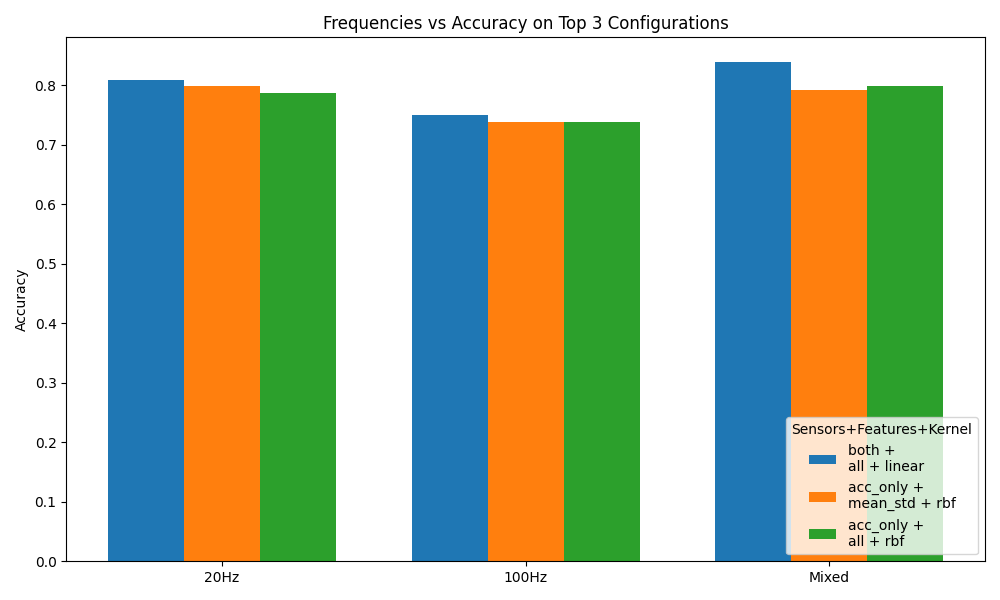
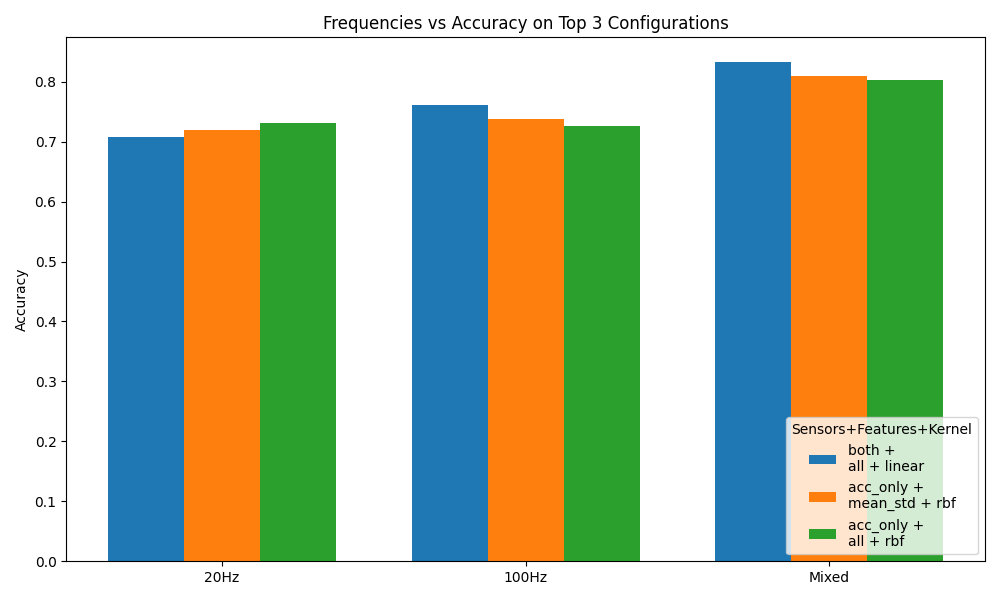
Update SVC kernel to linear with random state and sort dataset files

diff --git a/evaluate_full.py b/evaluate_full.py
@@ -40,7 +40,7 @@ def run_comprehensive_evaluation():
                 )
                 
                 for kernel in kernels:
-                    model = make_pipeline(StandardScaler(), SVC(kernel=kernel))
+                    model = make_pipeline(StandardScaler(), SVC(kernel=kernel, random_state=42))
                     model.fit(X_train, y_train)
                     acc = accuracy_score(y_test, model.predict(X_test))
                     

diff --git a/activity_recognizer.py b/activity_recognizer.py
@@ -37,10 +37,10 @@ class ActivityRecognizer:
         )
 
         # after comparing different kernels,
-        # rbf gave the most stable results for our data
+        # linear gave the most stable results for our data
         self.model = make_pipeline(
             StandardScaler(),
-            SVC(kernel="linear")
+            SVC(kernel="linear", random_state=42)
         )
 
         self.model.fit(X_train, y_train)

diff --git a/dataset_loader.py b/dataset_loader.py
@@ -9,8 +9,9 @@ def load_dataset(folder, target_freq=None):
     labels = []
 
     for root, dirs, files in os.walk(folder):
-
-        for filename in files:
+        dirs.sort()
+        
+        for filename in sorted(files):
 
             if not filename.endswith(".csv"):
                 continue

diff --git a/evaluation_table.md b/evaluation_table.md
@@ -2,147 +2,147 @@
 
 | Frequency   | Sensors   | Features   | Kernel   |   Accuracy |
 |:------------|:----------|:-----------|:---------|-----------:|
-| Mixed       | both      | all        | linear   |     0.8382 |
-| 20Hz        | both      | all        | linear   |     0.809  |
-| 20Hz        | acc_only  | mean_std   | rbf      |     0.7978 |
-| Mixed       | acc_only  | all        | rbf      |     0.7977 |
-| Mixed       | acc_only  | mean_std   | rbf      |     0.7919 |
-| 20Hz        | acc_only  | all        | rbf      |     0.7865 |
-| 20Hz        | both      | mean_std   | rbf      |     0.7753 |
-| 20Hz        | acc_only  | all        | linear   |     0.764  |
+| Mixed       | both      | all        | linear   |     0.8324 |
+| Mixed       | acc_only  | all        | linear   |     0.8092 |
+| Mixed       | acc_only  | mean_std   | rbf      |     0.8092 |
+| Mixed       | acc_only  | all        | rbf      |     0.8035 |
+| 100Hz       | both      | all        | linear   |     0.7619 |
 | Mixed       | both      | all        | rbf      |     0.7572 |
-| 20Hz        | both      | all        | rbf      |     0.7528 |
-| 100Hz       | both      | all        | linear   |     0.75   |
-| Mixed       | acc_only  | all        | linear   |     0.7457 |
+| 20Hz        | both      | mean_std   | rbf      |     0.7528 |
+| 100Hz       | both      | all        | rbf      |     0.75   |
+| Mixed       | both      | mean_std   | rbf      |     0.7457 |
+| Mixed       | both      | mean_std   | linear   |     0.7457 |
+| Mixed       | acc_only  | mean_std   | poly     |     0.7457 |
+| 20Hz        | both      | all        | rbf      |     0.7416 |
 | 100Hz       | acc_only  | mean_std   | rbf      |     0.7381 |
-| 100Hz       | acc_only  | all        | rbf      |     0.7381 |
-| Mixed       | both      | mean_std   | rbf      |     0.7283 |
-| 100Hz       | both      | all        | rbf      |     0.7262 |
-| 20Hz        | both      | mean_std   | linear   |     0.6966 |
-| Mixed       | both      | mean_std   | linear   |     0.6936 |
-| 100Hz       | acc_only  | all        | linear   |     0.6905 |
-| Mixed       | acc_only  | mean_std   | poly     |     0.6879 |
-| Mixed       | acc_only  | all        | poly     |     0.6821 |
-| 20Hz        | acc_only  | raw        | rbf      |     0.6742 |
-| 20Hz        | acc_only  | mean_std   | linear   |     0.6629 |
-| Mixed       | acc_only  | mean_std   | linear   |     0.659  |
-| Mixed       | both      | all        | poly     |     0.6532 |
-| Mixed       | both      | mean_only  | rbf      |     0.6532 |
-| 20Hz        | acc_only  | all        | poly     |     0.6517 |
-| 100Hz       | both      | mean_std   | rbf      |     0.6429 |
-| 20Hz        | acc_only  | mean_std   | poly     |     0.6404 |
-| 20Hz        | acc_only  | mean_only  | rbf      |     0.6404 |
-| 20Hz        | both      | mean_only  | rbf      |     0.6292 |
-| 100Hz       | acc_only  | mean_std   | linear   |     0.619  |
-| Mixed       | acc_only  | raw        | rbf      |     0.6185 |
-| Mixed       | acc_only  | mean_only  | rbf      |     0.6185 |
-| 100Hz       | both      | mean_only  | rbf      |     0.6071 |
-| 100Hz       | acc_only  | all        | poly     |     0.6071 |
-| 100Hz       | both      | mean_std   | linear   |     0.6071 |
-| Mixed       | both      | mean_std   | poly     |     0.6069 |
-| 20Hz        | both      | all        | poly     |     0.6067 |
-| 20Hz        | both      | mean_std   | sigmoid  |     0.6067 |
-| 20Hz        | both      | raw        | rbf      |     0.6067 |
-| Mixed       | both      | raw        | rbf      |     0.5954 |
-| 100Hz       | acc_only  | mean_std   | poly     |     0.5952 |
-| 100Hz       | acc_only  | raw        | rbf      |     0.5952 |
-| 20Hz        | both      | all        | sigmoid  |     0.5843 |
-| 100Hz       | acc_only  | all        | sigmoid  |     0.5833 |
-| 20Hz        | acc_only  | mean_std   | sigmoid  |     0.573  |
-| 20Hz        | acc_only  | all        | sigmoid  |     0.573  |
-| Mixed       | both      | all        | sigmoid  |     0.5723 |
-| 100Hz       | both      | all        | poly     |     0.5714 |
-| 20Hz        | both      | mean_std   | poly     |     0.5618 |
-| 100Hz       | acc_only  | mean_only  | rbf      |     0.5595 |
-| Mixed       | acc_only  | all        | sigmoid  |     0.5549 |
-| 100Hz       | both      | mean_std   | poly     |     0.5476 |
-| 20Hz        | acc_only  | raw        | poly     |     0.5393 |
-| Mixed       | acc_only  | mean_std   | sigmoid  |     0.5376 |
-| Mixed       | both      | mean_std   | sigmoid  |     0.5318 |
+| Mixed       | both      | mean_std   | poly     |     0.7341 |
+| 20Hz        | acc_only  | all        | rbf      |     0.7303 |
+| Mixed       | acc_only  | all        | poly     |     0.7283 |
+| 100Hz       | acc_only  | all        | rbf      |     0.7262 |
+| Mixed       | acc_only  | mean_std   | linear   |     0.7225 |
+| 20Hz        | acc_only  | mean_std   | rbf      |     0.7191 |
+| 100Hz       | both      | mean_std   | rbf      |     0.7143 |
+| 20Hz        | both      | all        | linear   |     0.7079 |
+| 100Hz       | acc_only  | all        | linear   |     0.7024 |
+| Mixed       | acc_only  | raw        | rbf      |     0.6936 |
+| 20Hz        | acc_only  | all        | linear   |     0.6854 |
+| 100Hz       | both      | mean_std   | linear   |     0.6786 |
+| 20Hz        | acc_only  | all        | poly     |     0.6742 |
+| 20Hz        | both      | mean_std   | linear   |     0.6742 |
+| 20Hz        | acc_only  | raw        | rbf      |     0.6629 |
+| Mixed       | both      | all        | poly     |     0.659  |
+| 20Hz        | both      | all        | poly     |     0.6517 |
+| 100Hz       | acc_only  | mean_std   | linear   |     0.6429 |
+| Mixed       | acc_only  | mean_only  | rbf      |     0.6416 |
+| Mixed       | both      | mean_std   | sigmoid  |     0.6358 |
+| 100Hz       | both      | mean_only  | rbf      |     0.631  |
+| 100Hz       | acc_only  | raw        | rbf      |     0.631  |
+| 20Hz        | acc_only  | mean_std   | linear   |     0.6292 |
+| Mixed       | both      | mean_only  | rbf      |     0.6185 |
+| 20Hz        | both      | mean_std   | poly     |     0.618  |
+| 20Hz        | acc_only  | mean_only  | rbf      |     0.6067 |
+| Mixed       | both      | all        | sigmoid  |     0.6012 |
+| Mixed       | both      | mean_only  | poly     |     0.6012 |
+| 20Hz        | acc_only  | mean_std   | poly     |     0.5955 |
+| 20Hz        | both      | all        | sigmoid  |     0.5955 |
+| 100Hz       | acc_only  | all        | poly     |     0.5952 |
+| Mixed       | acc_only  | all        | sigmoid  |     0.5838 |
+| 100Hz       | acc_only  | mean_only  | rbf      |     0.5833 |
+| 20Hz        | both      | mean_std   | sigmoid  |     0.573  |
+| 100Hz       | both      | all        | sigmoid  |     0.5714 |
+| 20Hz        | both      | mean_only  | rbf      |     0.5618 |
+| 20Hz        | acc_only  | mean_std   | sigmoid  |     0.5618 |
+| Mixed       | acc_only  | mean_std   | sigmoid  |     0.5607 |
+| 100Hz       | acc_only  | all        | sigmoid  |     0.5595 |
+| 20Hz        | acc_only  | raw        | poly     |     0.5506 |
+| Mixed       | acc_only  | mean_only  | poly     |     0.5491 |
+| Mixed       | both      | raw        | rbf      |     0.5491 |
+| 100Hz       | both      | raw        | rbf      |     0.5476 |
+| 100Hz       | both      | all        | poly     |     0.5476 |
+| 20Hz        | both      | raw        | rbf      |     0.5393 |
+| 20Hz        | both      | mean_only  | poly     |     0.5393 |
+| 100Hz       | acc_only  | mean_std   | sigmoid  |     0.5357 |
+| 20Hz        | acc_only  | all        | sigmoid  |     0.5281 |
+| 100Hz       | both      | mean_only  | poly     |     0.5238 |
 | 100Hz       | both      | mean_std   | sigmoid  |     0.5238 |
-| 100Hz       | both      | raw        | rbf      |     0.5238 |
-| 100Hz       | both      | all        | sigmoid  |     0.5119 |
-| 100Hz       | acc_only  | mean_std   | sigmoid  |     0.5119 |
-| Mixed       | both      | mean_only  | poly     |     0.5087 |
-| Mixed       | acc_only  | mean_only  | poly     |     0.5087 |
-| 20Hz        | acc_only  | mean_only  | linear   |     0.5056 |
-| 20Hz        | both      | raw        | sigmoid  |     0.5056 |
-| 20Hz        | both      | mean_only  | linear   |     0.5056 |
-| 100Hz       | both      | raw        | linear   |     0.4762 |
-| 100Hz       | both      | mean_only  | linear   |     0.4524 |
+| 100Hz       | acc_only  | mean_std   | poly     |     0.5119 |
+| 100Hz       | both      | mean_only  | linear   |     0.5119 |
+| 20Hz        | both      | raw        | linear   |     0.4831 |
+| 100Hz       | both      | mean_std   | poly     |     0.4762 |
+| 20Hz        | both      | mean_only  | linear   |     0.4719 |
+| 20Hz        | acc_only  | mean_only  | linear   |     0.4719 |
+| 20Hz        | both      | raw        | sigmoid  |     0.4719 |
+| 20Hz        | acc_only  | mean_only  | poly     |     0.4719 |
+| Mixed       | both      | mean_only  | linear   |     0.4682 |
+| 100Hz       | acc_only  | mean_only  | linear   |     0.4643 |
+| 100Hz       | acc_only  | raw        | poly     |     0.4643 |
+| 20Hz        | acc_only  | raw        | sigmoid  |     0.4607 |
 | 20Hz        | both      | mean_only  | sigmoid  |     0.4494 |
-| 20Hz        | both      | mean_only  | poly     |     0.4494 |
-| 20Hz        | acc_only  | raw        | sigmoid  |     0.4494 |
-| Mixed       | both      | mean_only  | linear   |     0.4451 |
-| Mixed       | acc_only  | mean_only  | linear   |     0.4451 |
-| 20Hz        | both      | raw        | linear   |     0.4382 |
-| Mixed       | both      | raw        | linear   |     0.4277 |
-| 20Hz        | acc_only  | mean_only  | poly     |     0.427  |
-| 100Hz       | both      | mean_only  | poly     |     0.4167 |
-| 100Hz       | acc_only  | raw        | sigmoid  |     0.4167 |
-| 100Hz       | acc_only  | raw        | linear   |     0.4167 |
-| Mixed       | both      | raw        | sigmoid  |     0.4162 |
-| 20Hz        | acc_only  | raw        | linear   |     0.4045 |
-| 100Hz       | acc_only  | mean_only  | poly     |     0.3929 |
-| Mixed       | acc_only  | raw        | linear   |     0.3873 |
-| Mixed       | acc_only  | raw        | poly     |     0.3873 |
-| 100Hz       | acc_only  | raw        | poly     |     0.369  |
-| Mixed       | acc_only  | raw        | sigmoid  |     0.3584 |
+| 100Hz       | acc_only  | raw        | sigmoid  |     0.4405 |
+| Mixed       | acc_only  | raw        | poly     |     0.4393 |
+| Mixed       | both      | raw        | linear   |     0.422  |
+| Mixed       | acc_only  | mean_only  | linear   |     0.422  |
+| 100Hz       | both      | raw        | sigmoid  |     0.4048 |
+| 100Hz       | acc_only  | mean_only  | poly     |     0.4048 |
+| Mixed       | acc_only  | raw        | linear   |     0.4046 |
+| 20Hz        | gyro_only | all        | rbf      |     0.4045 |
+| Mixed       | both      | raw        | sigmoid  |     0.3931 |
+| Mixed       | both      | mean_only  | sigmoid  |     0.3931 |
+| 100Hz       | gyro_only | all        | rbf      |     0.3929 |
+| 20Hz        | acc_only  | raw        | linear   |     0.382  |
+| 100Hz       | gyro_only | mean_std   | poly     |     0.369  |
+| 100Hz       | acc_only  | raw        | linear   |     0.369  |
+| 100Hz       | both      | raw        | linear   |     0.369  |
+| 100Hz       | gyro_only | all        | poly     |     0.369  |
+| 20Hz        | gyro_only | mean_std   | rbf      |     0.3596 |
+| 100Hz       | gyro_only | mean_std   | rbf      |     0.3571 |
 | Mixed       | gyro_only | all        | rbf      |     0.3526 |
-| Mixed       | both      | mean_only  | sigmoid  |     0.3468 |
-| 100Hz       | gyro_only | mean_std   | poly     |     0.3452 |
-| Mixed       | gyro_only | mean_std   | rbf      |     0.3353 |
-| 100Hz       | gyro_only | all        | rbf      |     0.3333 |
-| 100Hz       | acc_only  | mean_only  | linear   |     0.3333 |
-| 100Hz       | gyro_only | all        | poly     |     0.3333 |
-| 100Hz       | both      | raw        | sigmoid  |     0.3333 |
-| 20Hz        | gyro_only | all        | rbf      |     0.3258 |
-| 20Hz        | gyro_only | mean_std   | rbf      |     0.3258 |
+| 100Hz       | acc_only  | mean_only  | sigmoid  |     0.3452 |
+| Mixed       | acc_only  | raw        | sigmoid  |     0.3353 |
+| 100Hz       | gyro_only | all        | linear   |     0.3333 |
+| Mixed       | both      | raw        | poly     |     0.3295 |
+| 20Hz        | gyro_only | raw        | linear   |     0.3258 |
+| 20Hz        | gyro_only | all        | poly     |     0.3258 |
 | 100Hz       | both      | mean_only  | sigmoid  |     0.3214 |
-| 100Hz       | gyro_only | mean_std   | rbf      |     0.3214 |
-| 20Hz        | acc_only  | mean_only  | sigmoid  |     0.3146 |
-| 20Hz        | gyro_only | raw        | linear   |     0.3146 |
-| Mixed       | gyro_only | mean_std   | poly     |     0.3006 |
+| 100Hz       | gyro_only | mean_only  | poly     |     0.3214 |
+| 20Hz        | both      | raw        | poly     |     0.3146 |
+| 100Hz       | gyro_only | mean_only  | rbf      |     0.3095 |
+| Mixed       | gyro_only | mean_std   | poly     |     0.3064 |
+| Mixed       | gyro_only | mean_std   | rbf      |     0.3064 |
+| 20Hz        | gyro_only | mean_only  | rbf      |     0.3034 |
 | Mixed       | gyro_only | all        | poly     |     0.3006 |
-| 100Hz       | gyro_only | mean_only  | linear   |     0.2976 |
-| 100Hz       | gyro_only | all        | linear   |     0.2976 |
-| 20Hz        | gyro_only | mean_only  | sigmoid  |     0.2921 |
+| 100Hz       | both      | raw        | poly     |     0.2976 |
+| 100Hz       | gyro_only | mean_std   | linear   |     0.2976 |
+| 100Hz       | gyro_only | raw        | rbf      |     0.2976 |
+| 20Hz        | gyro_only | all        | sigmoid  |     0.2921 |
 | 20Hz        | gyro_only | all        | linear   |     0.2921 |
-| 20Hz        | gyro_only | all        | poly     |     0.2921 |
-| Mixed       | gyro_only | mean_only  | sigmoid  |     0.289  |
-| Mixed       | gyro_only | mean_std   | linear   |     0.289  |
-| 100Hz       | gyro_only | mean_std   | linear   |     0.2857 |
-| 100Hz       | gyro_only | mean_only  | rbf      |     0.2857 |
-| 100Hz       | gyro_only | mean_only  | poly     |     0.2857 |
-| 100Hz       | both      | raw        | poly     |     0.2857 |
-| 20Hz        | gyro_only | mean_only  | linear   |     0.2809 |
-| 20Hz        | gyro_only | raw        | rbf      |     0.2809 |
-| 20Hz        | gyro_only | mean_only  | rbf      |     0.2809 |
+| 100Hz       | gyro_only | mean_only  | linear   |     0.2857 |
 | 20Hz        | gyro_only | raw        | poly     |     0.2809 |
-| 20Hz        | gyro_only | mean_std   | sigmoid  |     0.2809 |
+| 20Hz        | gyro_only | mean_std   | poly     |     0.2809 |
+| 20Hz        | gyro_only | raw        | rbf      |     0.2809 |
 | 20Hz        | gyro_only | mean_std   | linear   |     0.2809 |
-| Mixed       | acc_only  | mean_only  | sigmoid  |     0.2775 |
-| Mixed       | both      | raw        | poly     |     0.2775 |
-| Mixed       | gyro_only | all        | linear   |     0.2775 |
-| 100Hz       | acc_only  | mean_only  | sigmoid  |     0.2738 |
-| Mixed       | gyro_only | mean_only  | rbf      |     0.2717 |
-| Mixed       | gyro_only | mean_only  | linear   |     0.2717 |
-| Mixed       | gyro_only | raw        | sigmoid  |     0.2717 |
-| Mixed       | gyro_only | mean_only  | poly     |     0.2717 |
-| 20Hz        | gyro_only | all        | sigmoid  |     0.2697 |
-| 20Hz        | gyro_only | mean_std   | poly     |     0.2697 |
+| 20Hz        | gyro_only | mean_only  | linear   |     0.2809 |
+| Mixed       | gyro_only | all        | linear   |     0.2717 |
+| 20Hz        | acc_only  | mean_only  | sigmoid  |     0.2697 |
 | 20Hz        | gyro_only | raw        | sigmoid  |     0.2697 |
-| Mixed       | gyro_only | raw        | linear   |     0.2601 |
-| 20Hz        | gyro_only | mean_only  | poly     |     0.2584 |
-| 20Hz        | both      | raw        | poly     |     0.2584 |
+| 20Hz        | gyro_only | mean_std   | sigmoid  |     0.2697 |
+| Mixed       | gyro_only | mean_only  | poly     |     0.2659 |
+| Mixed       | gyro_only | mean_only  | rbf      |     0.2601 |
+| Mixed       | gyro_only | raw        | sigmoid  |     0.2543 |
+| Mixed       | gyro_only | mean_std   | linear   |     0.2543 |
+| Mixed       | gyro_only | mean_only  | linear   |     0.2543 |
+| 100Hz       | gyro_only | mean_only  | sigmoid  |     0.25   |
 | Mixed       | gyro_only | raw        | rbf      |     0.2486 |
-| 100Hz       | gyro_only | mean_only  | sigmoid  |     0.2381 |
-| 100Hz       | gyro_only | raw        | rbf      |     0.2381 |
+| 20Hz        | gyro_only | mean_only  | sigmoid  |     0.2472 |
+| 20Hz        | gyro_only | mean_only  | poly     |     0.2472 |
+| 100Hz       | gyro_only | all        | sigmoid  |     0.2381 |
+| 100Hz       | gyro_only | raw        | linear   |     0.2381 |
 | 100Hz       | gyro_only | raw        | poly     |     0.2381 |
-| Mixed       | gyro_only | raw        | poly     |     0.2254 |
-| 100Hz       | gyro_only | all        | sigmoid  |     0.2143 |
-| 100Hz       | gyro_only | raw        | sigmoid  |     0.2143 |
-| 100Hz       | gyro_only | mean_std   | sigmoid  |     0.1905 |
-| 100Hz       | gyro_only | raw        | linear   |     0.1786 |
-| Mixed       | gyro_only | all        | sigmoid  |     0.1734 |
-| Mixed       | gyro_only | mean_std   | sigmoid  |     0.1734 |
+| 100Hz       | gyro_only | raw        | sigmoid  |     0.2381 |
+| Mixed       | gyro_only | raw        | poly     |     0.237  |
+| 100Hz       | gyro_only | mean_std   | sigmoid  |     0.2262 |
+| Mixed       | acc_only  | mean_only  | sigmoid  |     0.2023 |
+| Mixed       | gyro_only | raw        | linear   |     0.1965 |
+| Mixed       | gyro_only | mean_only  | sigmoid  |     0.185  |
+| Mixed       | gyro_only | all        | sigmoid  |     0.185  |
+| Mixed       | gyro_only | mean_std   | sigmoid  |     0.1387 |
